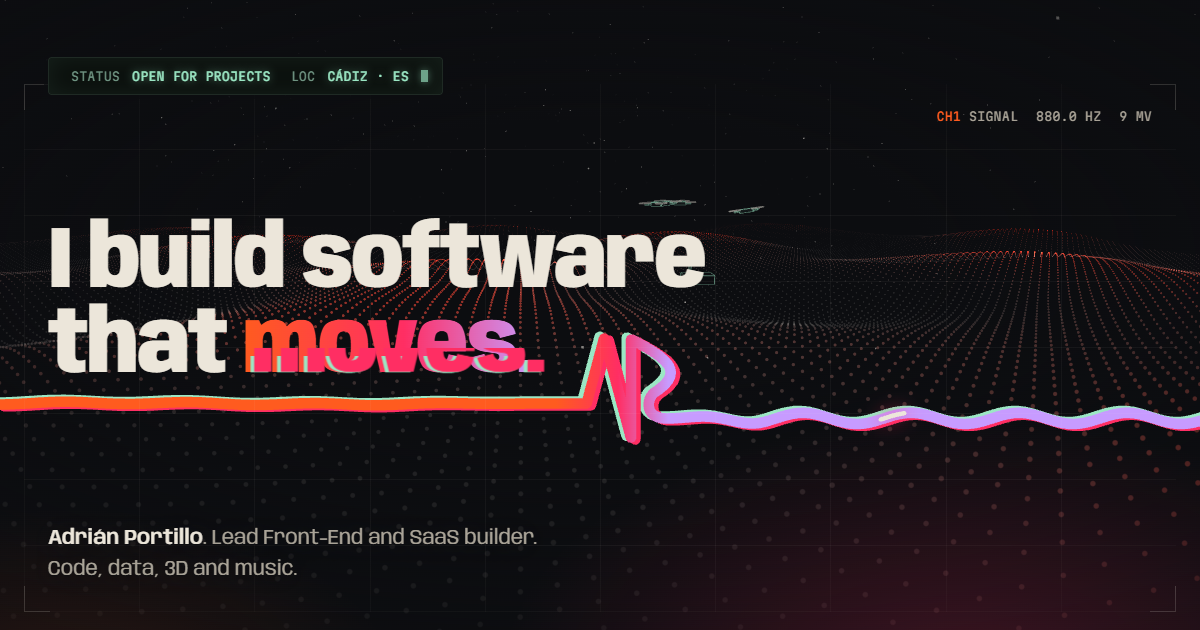
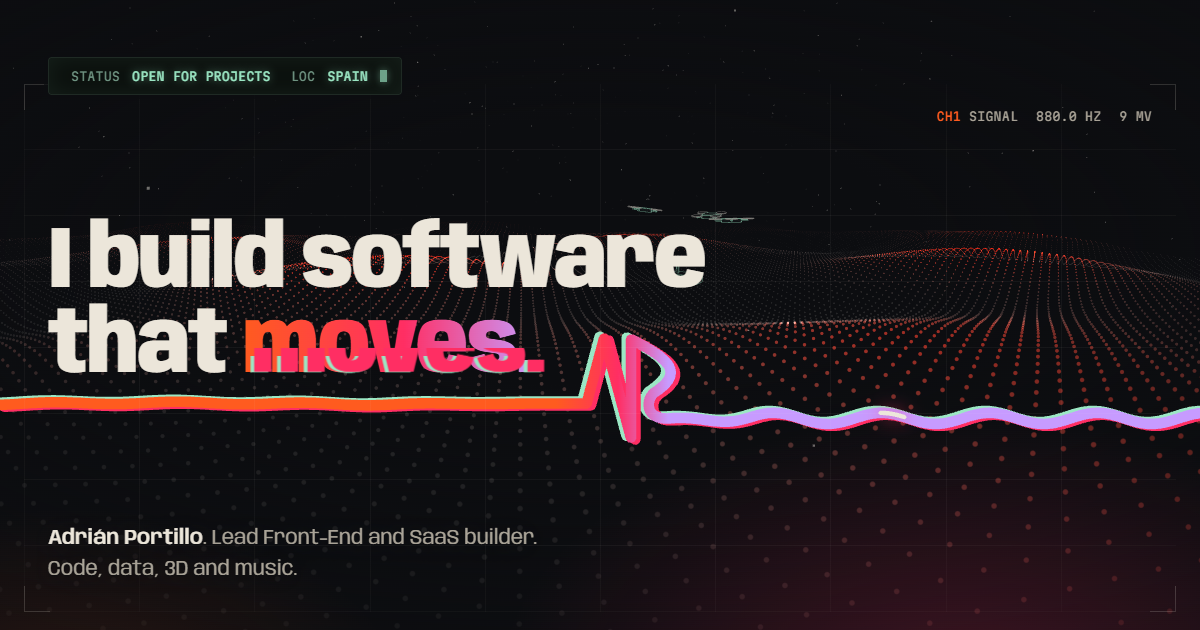
content: show location as Spain instead of Cádiz (site, legal, share images)

diff --git a/index.html b/index.html
@@ -4,7 +4,7 @@
   <meta charset="utf-8" />
   <meta name="viewport" content="width=device-width, initial-scale=1" />
   <title>Adrián Portillo — Desarrollo de software, datos y 3D</title>
-  <meta name="description" content="Adrián Portillo Sánchez, Lead Front-End en Satinel System (Go!Planner) y creador de productos SaaS. Desarrollo web, apps a medida, datos e IA. Cádiz, España." />
+  <meta name="description" content="Adrián Portillo Sánchez, Lead Front-End en Satinel System (Go!Planner) y creador de productos SaaS. Desarrollo web, apps a medida, datos e IA. España." />
   <meta property="og:title" content="Adrián Portillo — Señal" />
   <meta property="og:description" content="Un recorrido en 3D por lo que construyo: SaaS, logística, IA, música." />
   <meta property="og:type" content="website" />
@@ -79,7 +79,7 @@
     <section class="hero chapter" id="top" data-accent="#ff5b1f" data-ch="00" data-name="Señal" aria-labelledby="hero-title">
       <canvas class="hero__signal" aria-hidden="true"></canvas>
       <div class="hero__scope" aria-hidden="true"><i></i><i></i><i></i><i></i></div>
-      <p class="hero__eyebrow hero__lcd mono"><span class="visually-hidden">Abierto a proyectos, desde Cádiz.</span><span class="hero__lcd-k" aria-hidden="true">Estado</span><span data-lcd="msg" aria-hidden="true">Abierto a proyectos</span><span class="hero__lcd-k hero__city" aria-hidden="true">Loc</span><span class="hero__city" data-lcd="loc" aria-hidden="true">Cádiz · ES</span><span class="hero__cursor" aria-hidden="true"></span></p>
+      <p class="hero__eyebrow hero__lcd mono"><span class="visually-hidden">Abierto a proyectos, desde España.</span><span class="hero__lcd-k" aria-hidden="true">Estado</span><span data-lcd="msg" aria-hidden="true">Abierto a proyectos</span><span class="hero__lcd-k hero__city" aria-hidden="true">Loc</span><span class="hero__city" data-lcd="loc" aria-hidden="true">España</span><span class="hero__cursor" aria-hidden="true"></span></p>
       <h1 id="hero-title" class="hero__title" aria-label="Construyo software que se mueve.">
         <span class="hero__line" aria-hidden="true"><span class="w"><span>Construyo</span></span> <span class="w"><span>software</span></span></span>
         <span class="hero__line" aria-hidden="true" data-signal-anchor><span class="w"><span>que</span></span> <span class="w"><span>se</span></span> <span class="w"><span class="glitch" data-text="mueve.">mueve.</span></span></span>
@@ -259,7 +259,7 @@
   </main>
 
   <footer class="footer">
-    <p class="mono">© <span data-year>2026</span> Adrián Portillo Sánchez · Cádiz</p>
+    <p class="mono">© <span data-year>2026</span> Adrián Portillo Sánchez · España</p>
     <p class="mono">Hecho a mano con Three.js, GSAP y Lenis. Sin plantillas. <a href="https://github.com/adri95cadiz/portfolio" target="_blank" rel="noopener">Código en GitHub</a> · <a href="/legal/">Aviso legal y privacidad</a></p>
   </footer>
 

diff --git a/src/i18n-page.js b/src/i18n-page.js
@@ -27,7 +27,7 @@ export const PAGE_EN = [
   ['#capacidades', { attr: { 'data-name': 'Skills' } }],
   ['#hablemos', { attr: { 'data-name': 'Let’s talk' } }],
 
-  ['.hero__lcd', { html: '<span class="visually-hidden">Open for projects, based in Cádiz, Spain.</span><span class="hero__lcd-k" aria-hidden="true">Status</span><span data-lcd="msg" aria-hidden="true">Open for projects</span><span class="hero__lcd-k hero__city" aria-hidden="true">Loc</span><span class="hero__city" data-lcd="loc" aria-hidden="true">Cádiz · ES</span><span class="hero__cursor" aria-hidden="true"></span>' }],
+  ['.hero__lcd', { html: '<span class="visually-hidden">Open for projects, based in Spain.</span><span class="hero__lcd-k" aria-hidden="true">Status</span><span data-lcd="msg" aria-hidden="true">Open for projects</span><span class="hero__lcd-k hero__city" aria-hidden="true">Loc</span><span class="hero__city" data-lcd="loc" aria-hidden="true">Spain</span><span class="hero__cursor" aria-hidden="true"></span>' }],
   ['#hero-title', { attr: { 'aria-label': 'I build software that moves.' } }],
   ['.hero__line:not([data-signal-anchor])', { html: '<span class="w"><span>I</span></span> <span class="w"><span>build</span></span> <span class="w"><span>software</span></span>' }],
   ['[data-signal-anchor]', { html: '<span class="w"><span>that</span></span> <span class="w"><span class="glitch" data-text="moves.">moves.</span></span>' }],
@@ -111,7 +111,7 @@ export const PAGE_EN = [
 export const META = {
   es: {
     title: 'Adrián Portillo — Desarrollo de software, datos y 3D',
-    desc: 'Adrián Portillo Sánchez, Lead Front-End en Satinel System (Go!Planner) y creador de productos SaaS. Desarrollo web, apps a medida, datos e IA. Cádiz, España.',
+    desc: 'Adrián Portillo Sánchez, Lead Front-End en Satinel System (Go!Planner) y creador de productos SaaS. Desarrollo web, apps a medida, datos e IA. España.',
     ogTitle: 'Adrián Portillo — Señal',
     ogDesc: 'Un recorrido en 3D por lo que construyo: SaaS, logística, IA, música.',
     ogAlt: 'Construyo software que se mueve: una señal de osciloscopio cruza el titular y dibuja el logo AP de Adrián Portillo.',
@@ -119,7 +119,7 @@ export const META = {
   },
   en: {
     title: 'Adrián Portillo — Software, data and 3D',
-    desc: 'Adrián Portillo Sánchez, Lead Front-End at Satinel System (Go!Planner) and SaaS builder. Web platforms, custom apps, data and AI. Cádiz, Spain.',
+    desc: 'Adrián Portillo Sánchez, Lead Front-End at Satinel System (Go!Planner) and SaaS builder. Web platforms, custom apps, data and AI. Spain.',
     ogTitle: 'Adrián Portillo — Signal',
     ogDesc: 'A 3D journey through what I build: SaaS, logistics, AI, music.',
     ogAlt: 'I build software that moves: an oscilloscope signal crosses the headline and draws Adrián Portillo’s AP logo.',

diff --git a/src/i18n.js b/src/i18n.js
@@ -31,7 +31,7 @@ const STRINGS = {
     'form.sending': 'Enviando…', 'form.ok': '¡Recibido! Te respondo en cuanto lo lea, normalmente en 24–48 h.',
     'form.rate': 'Demasiados envíos seguidos. Prueba en unos minutos.', 'form.fail': 'No he podido enviar el mensaje.',
     'form.fallback': 'Escríbeme a', 'spotify.title': 'Reproductor de Spotify de Athetosis', 'spotify.open': 'Abrir en Spotify',
-    'lcd.msgs': 'Compilando ideas|Café nº 3|174 BPM en bucle|Respondo en 24 h|Perro: dormido|Sin bugs (creo)', 'lcd.coords': '36.5°N 6.3°W',
+    'lcd.msgs': 'Compilando ideas|Café nº 3|174 BPM en bucle|Respondo en 24 h|Perro: dormido|Sin bugs (creo)', 'lcd.coords': '40.4°N 3.7°W',
   },
   en: {
     'ach.unlocked': 'Achievement unlocked', 'ach.locked': 'Locked', 'ach.keep': 'Keep exploring.',
@@ -60,7 +60,7 @@ const STRINGS = {
     'form.sending': 'Sending…', 'form.ok': 'Got it! I’ll reply as soon as I read it, usually within 24–48 h.',
     'form.rate': 'Too many messages in a row. Try again in a few minutes.', 'form.fail': 'I couldn’t send your message.',
     'form.fallback': 'Write to me at', 'spotify.title': 'Athetosis Spotify player', 'spotify.open': 'Open in Spotify',
-    'lcd.msgs': 'Compiling ideas|Coffee no. 3|174 BPM on loop|Replies within 24 h|Dog: asleep|No bugs (I think)', 'lcd.coords': '36.5°N 6.3°W',
+    'lcd.msgs': 'Compiling ideas|Coffee no. 3|174 BPM on loop|Replies within 24 h|Dog: asleep|No bugs (I think)', 'lcd.coords': '40.4°N 3.7°W',
   },
 };
 

diff --git a/legal/index.html b/legal/index.html
@@ -26,7 +26,7 @@
     <dl>
       <dt>Titular</dt><dd>Adrián Portillo Sánchez</dd>
       <!-- Si facturas como autónomo, añade aquí: <dt>NIF</dt><dd>…</dd> -->
-      <dt>Ubicación</dt><dd>Cádiz, España</dd>
+      <dt>Ubicación</dt><dd>España</dd>
       <dt>Contacto</dt><dd><a href="mailto:adri95cadiz@gmail.com">adri95cadiz@gmail.com</a></dd>
       <dt>Finalidad</dt><dd>Portfolio personal y contacto profesional.</dd>
     </dl>

diff --git a/legal/en/index.html b/legal/en/index.html
@@ -26,7 +26,7 @@
     <dl>
       <dt>Owner</dt><dd>Adrián Portillo Sánchez</dd>
       <!-- If you invoice as self-employed, add: <dt>Tax ID</dt><dd>…</dd> -->
-      <dt>Location</dt><dd>Cádiz, Spain</dd>
+      <dt>Location</dt><dd>Spain</dd>
       <dt>Contact</dt><dd><a href="mailto:adri95cadiz@gmail.com">adri95cadiz@gmail.com</a></dd>
       <dt>Purpose</dt><dd>Personal portfolio and professional contact.</dd>
     </dl>
